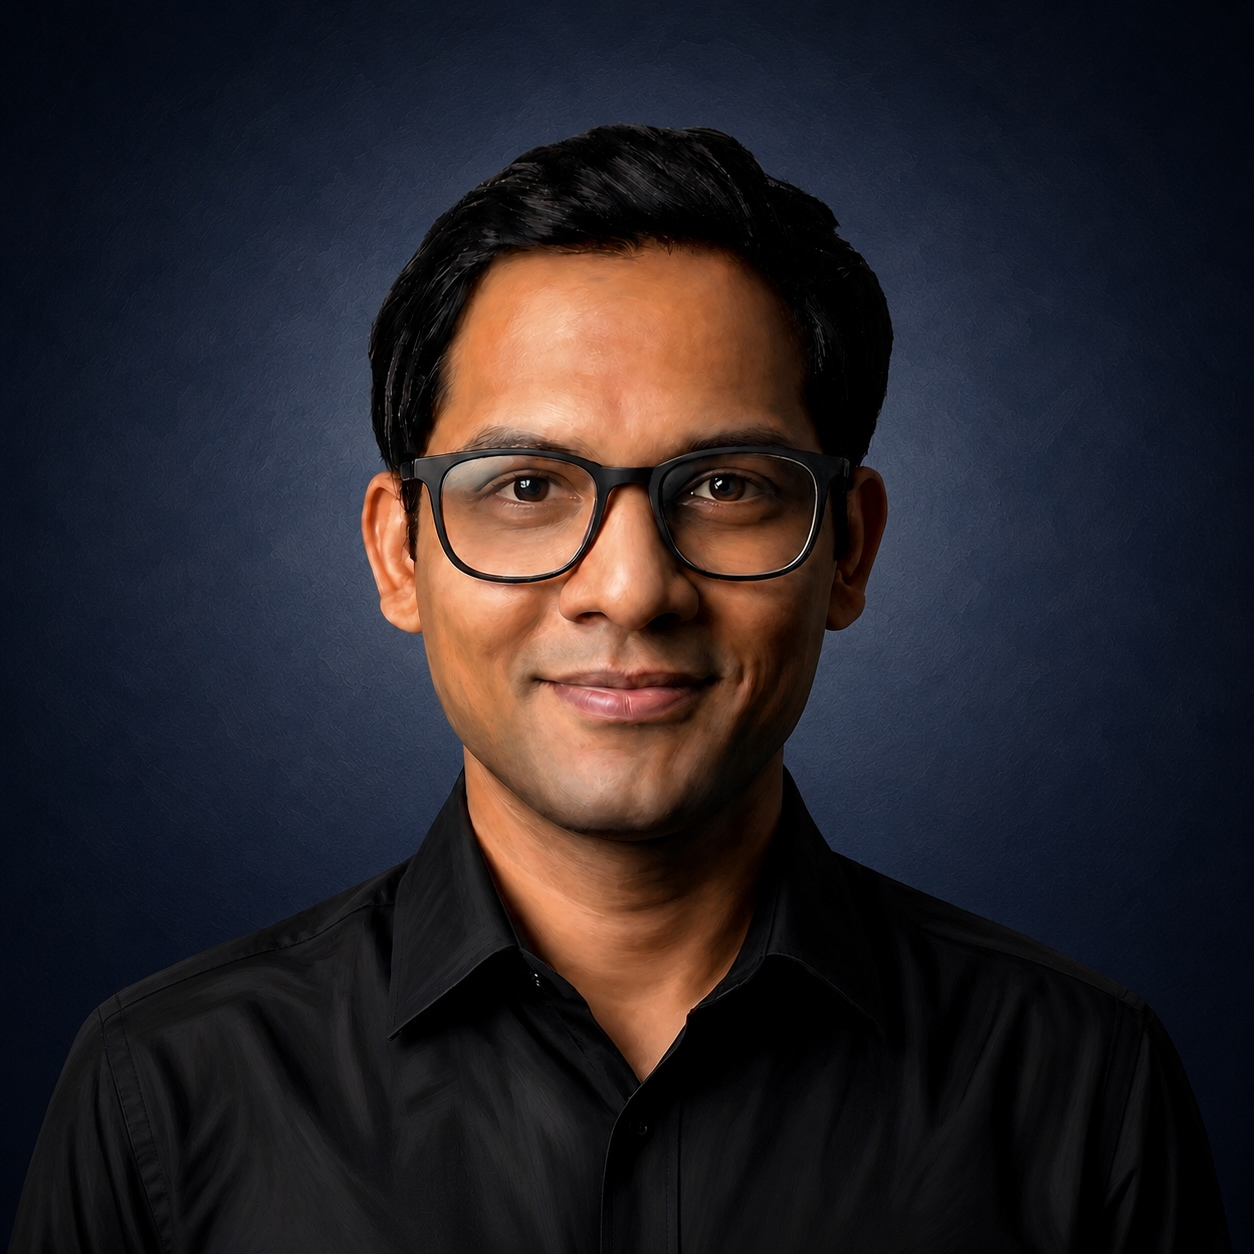
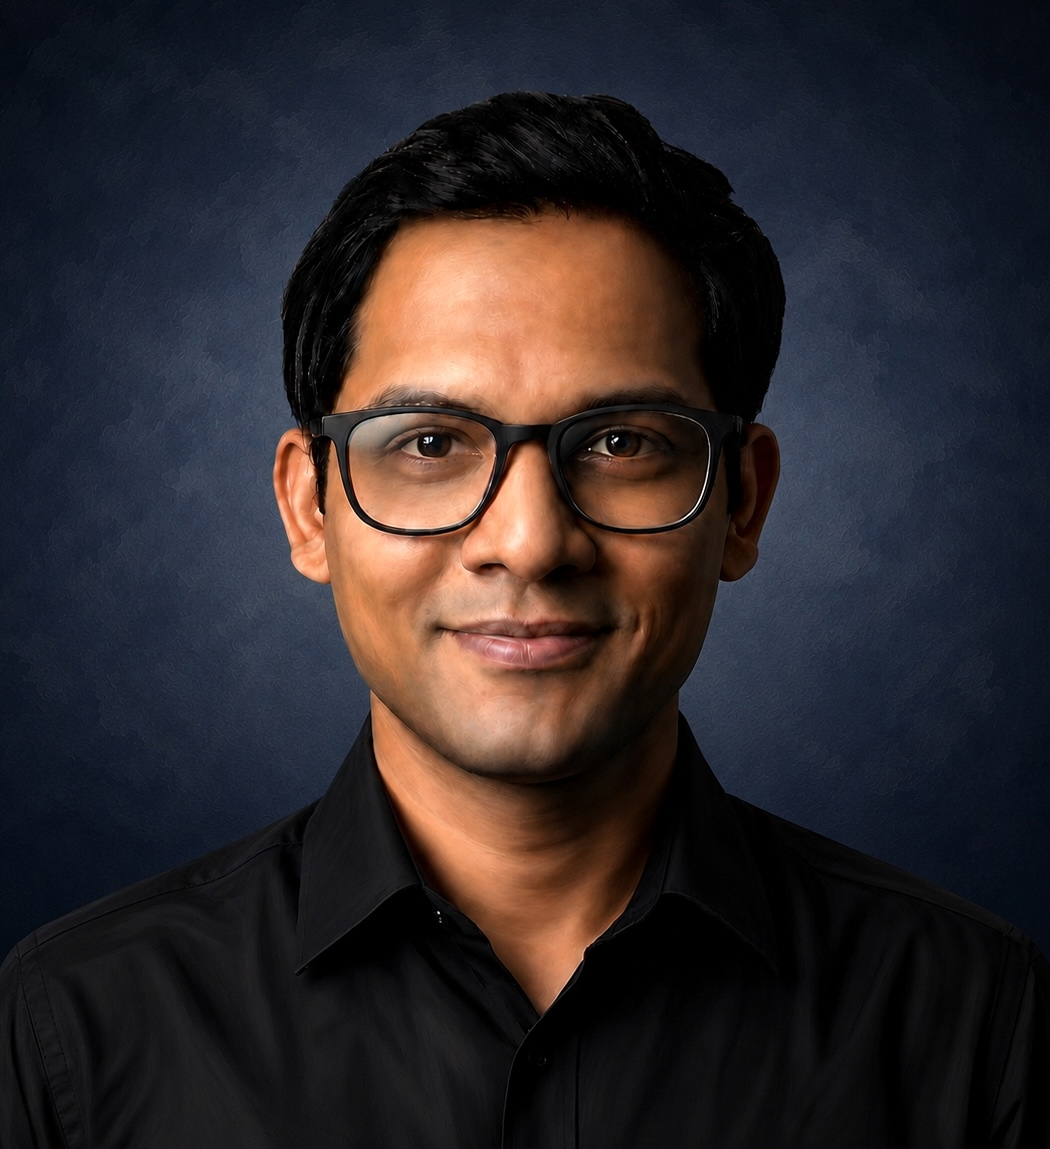
update pic

diff --git a/src/components/ProfileHex.jsx b/src/components/ProfileHex.jsx
@@ -3,7 +3,7 @@ import { useId, useState } from "react";
 
 const ProfileHex = ({ src }) => {
   return (
-    <div className="relative flex w-5/12 items-center justify-center sm:w-7/12">
+    <div className="relative flex w-7/12 items-center justify-center">
       <MiniHex
         wrapperClassName="absolute -left-3 -top-8 w-9 sm:-left-6 sm:-top-10 sm:w-11 md:w-14"
         floatDuration={5}
